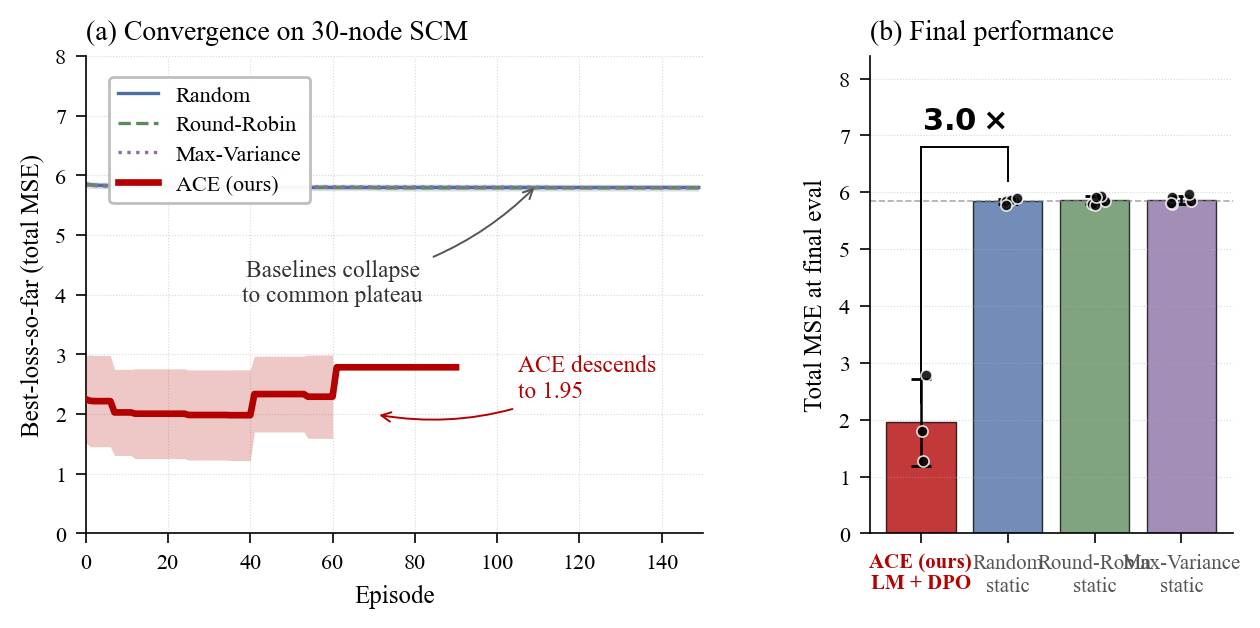
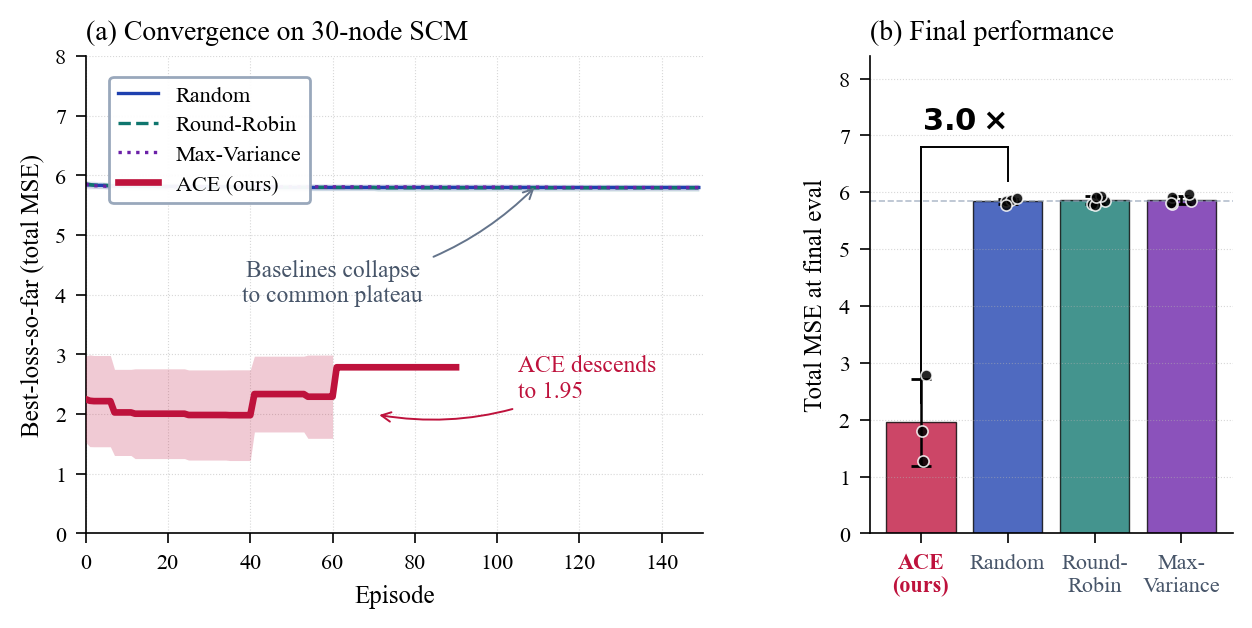
Figure 4(b): drop class-tag suffixes that bunched the x-tick labels
User feedback: 'ACE (ours) / LM + DPO / Random / static / Round-Robin /
static / Max-Variance / static in Figure 4 b are all bunched together
please fix.'

Cause: the x-tick labels were two-line strings like 'ACE (ours)\\nLM + DPO'
and 'Round-Robin\\nstatic'. With panel B being only ~2.7 inches wide
(width_ratio 1.0 of a 7.4-inch figure), each bar got ~0.68 inches of
horizontal space, but 'Round-Robin' alone needed ~0.7 inches at 7.5pt --
the labels overflowed adjacent bars and read as one bunched mess.

Fix: dropped the redundant class-tag subtitles ('LM + DPO' / 'static')
from the x-tick labels. Each label is now a compact two-liner only when
the method name itself benefits ('Round-/Robin', 'Max-/Variance'); ACE
gets 'ACE/(ours)' and Random stays single-line. The class-class
distinction (LM + DPO vs static heuristics) is still fully conveyed by:
  - bar color: ACE in ruby-dark vs muted sky/teal/violet for baselines
  - tick-label weight: bold + ruby color on 'ACE (ours)', regular slate
    on the three baseline names
  - the figure caption itself: '...sets a new method class (LM + DPO)
    against three static heuristics'

Bumped tick-label fontsize from 7.5 to 8 (no longer crammed).

diff --git a/scripts/analysis/plot_30node_results.py b/scripts/analysis/plot_30node_results.py
@@ -226,16 +226,17 @@ axR.text(0.5, y_top + 0.18, r"$\mathbf{3.0\times}$",
          ha="center", va="bottom", fontsize=11, fontweight="bold")
 
 axR.set_xticks(x)
-# X-tick labels with method-class tag baked in, color-coded so the novelty
-# of the LM-based policy class (vs the three static heuristics) is visible
-# at a glance.
+# Compact 2-line labels. The method-class distinction (LM+DPO vs static
+# heuristics) is conveyed by bar color and the figure caption, so we drop
+# the redundant class-tag suffixes that previously caused the labels to
+# bunch and overlap with each bar getting only ~0.7 in of horizontal space.
 labels_classed = [
-    "ACE (ours)\nLM + DPO",
-    "Random\nstatic",
-    "Round-Robin\nstatic",
-    "Max-Variance\nstatic",
+    "ACE\n(ours)",
+    "Random",
+    "Round-\nRobin",
+    "Max-\nVariance",
 ]
-axR.set_xticklabels(labels_classed, fontsize=7.5)
+axR.set_xticklabels(labels_classed, fontsize=8)
 tick_label_colors = [COLORS["ACE"], "#475569", "#475569", "#475569"]  # aceSlateDk
 for tick_label, c in zip(axR.get_xticklabels(), tick_label_colors):
     tick_label.set_color(c)
